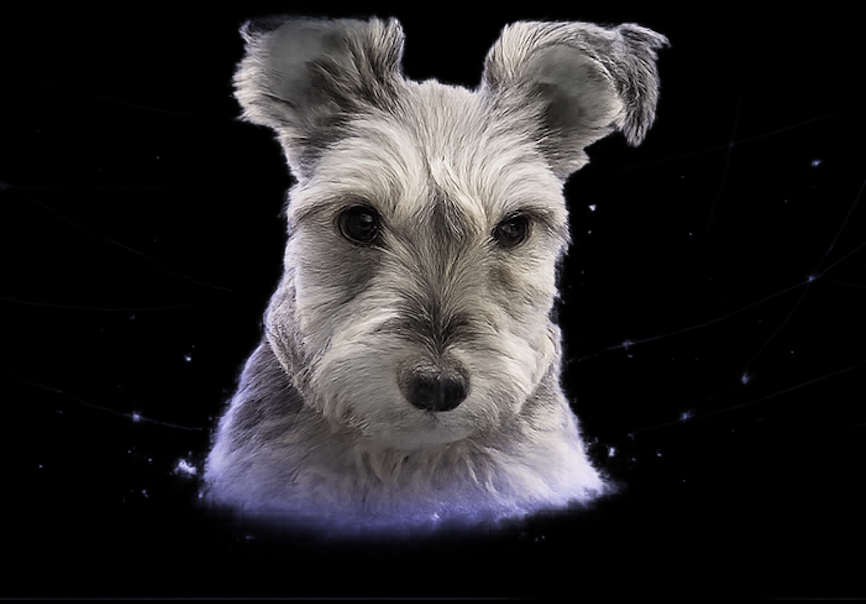
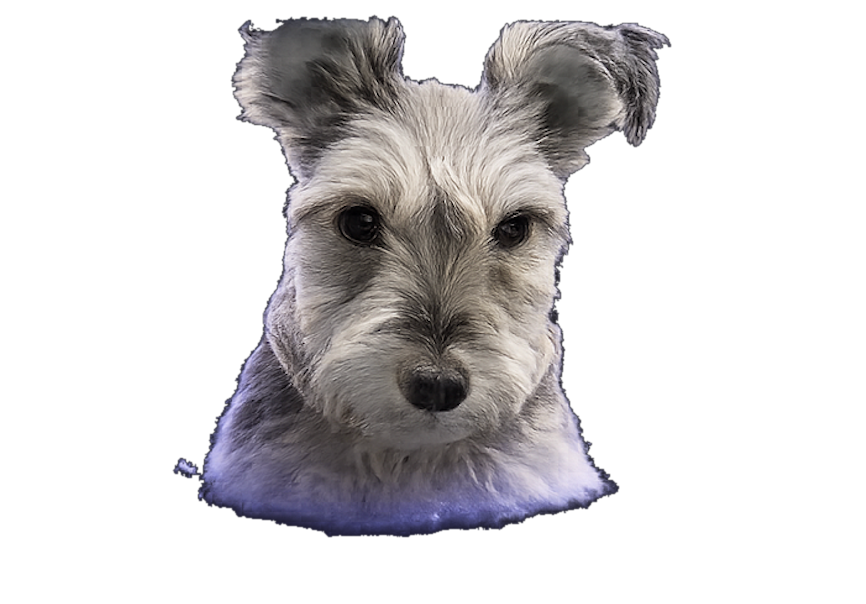
fix(companion): refine transparent assets and cap

diff --git a/tests/princessPoseStates.test.js b/tests/princessPoseStates.test.js
@@ -68,3 +68,22 @@ test('new pose PNG file is the uploaded complete image', async () => {
     assert.ok((await readFile(assetPath)).byteLength > 0);
   }
 });
+
+test('every uploaded Princess state asset has a genuinely transparent background', async () => {
+  const filenames = new Set(Object.values(expectedVisualByState));
+  for (const filename of filenames) {
+    const assetPath = fileURLToPath(new URL(`../public/images/princess/${filename}`, import.meta.url));
+    const { data, info } = await sharp(assetPath).ensureAlpha().raw().toBuffer({ resolveWithObject: true });
+    let transparentPixels = 0;
+    let opaquePixels = 0;
+    for (let offset = 3; offset < data.length; offset += info.channels) {
+      if (data[offset] === 0) transparentPixels += 1;
+      if (data[offset] === 255) opaquePixels += 1;
+    }
+    assert.ok(transparentPixels > info.width * info.height * 0.5, `${filename} should not contain an opaque rectangular background`);
+    assert.ok(opaquePixels > info.width * info.height * 0.1, `${filename} should retain the complete Princess subject`);
+    for (const cornerOffset of [3, (info.width - 1) * info.channels + 3, (info.width * (info.height - 1)) * info.channels + 3, (info.width * info.height - 1) * info.channels + 3]) {
+      assert.equal(data[cornerOffset], 0, `${filename} canvas corners must be transparent`);
+    }
+  }
+});

diff --git a/tests/companionRouteConfig.test.js b/tests/companionRouteConfig.test.js
@@ -42,6 +42,8 @@ test('accessories use module-specific fixed anchors', () => {
   assert.equal(getAccessoryAnchor('round-glasses', 'identity', 1440), null);
   assert.equal(getAccessoryAnchor('round-glasses', 'home', 1440), null);
   assert.ok(getAccessoryAnchor('academic-cap', 'coaching', 1440));
+  assert.deepEqual(getAccessoryAnchor('academic-cap', 'coaching', 1440), { left: 50, top: 1, width: 34, rotate: 0 });
+  assert.deepEqual(getAccessoryAnchor('academic-cap', 'coaching', 390), { left: 50, top: 2, width: 32, rotate: 0 });
 });
 
 test('all eight contexts have a distinct fixed transparent pose asset', () => {

diff --git a/src/lib/companionRouteConfig.js b/src/lib/companionRouteConfig.js
@@ -95,8 +95,8 @@ export const accessoryAnchorsByPose = Object.freeze({
   }),
   'academic-cap': Object.freeze({
     coaching: Object.freeze({
-      desktop: Object.freeze({ left: 50, top: 10, width: 48, rotate: 0 }),
-      mobile: Object.freeze({ left: 50, top: 11, width: 44, rotate: 0 }),
+      desktop: Object.freeze({ left: 50, top: 1, width: 34, rotate: 0 }),
+      mobile: Object.freeze({ left: 50, top: 2, width: 32, rotate: 0 }),
     }),
   }),
 });
